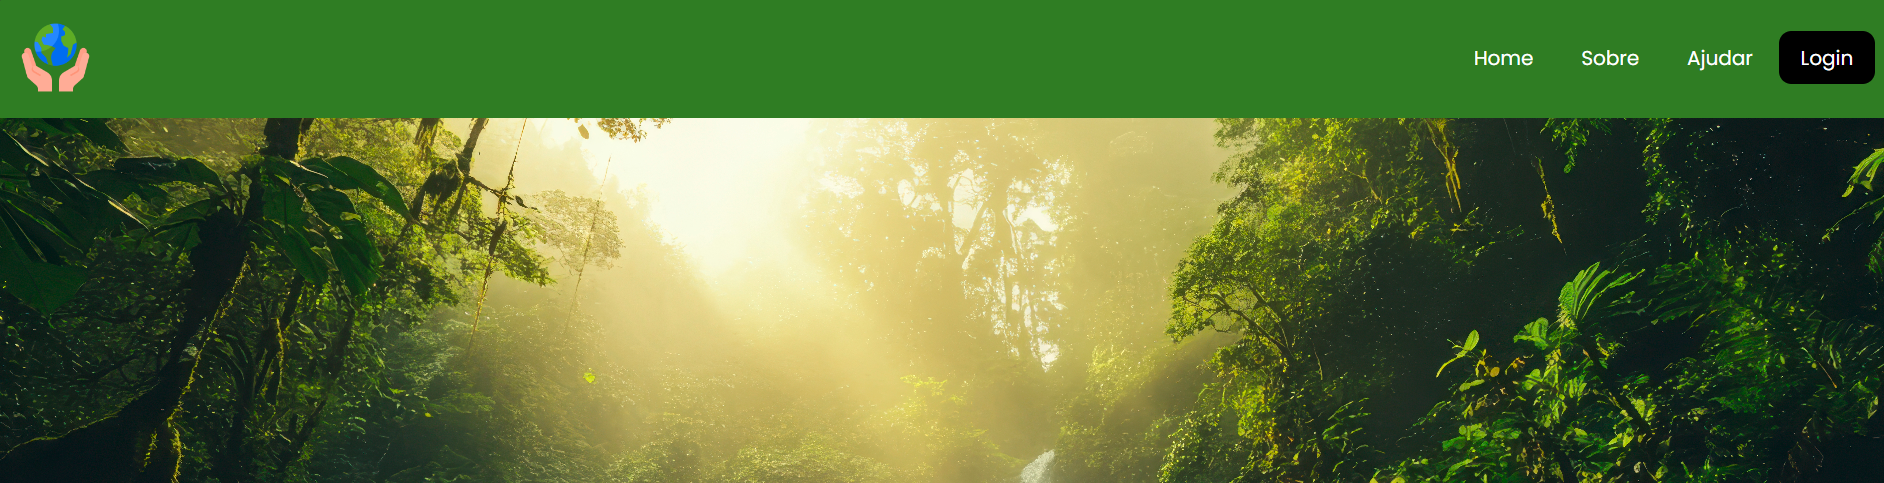
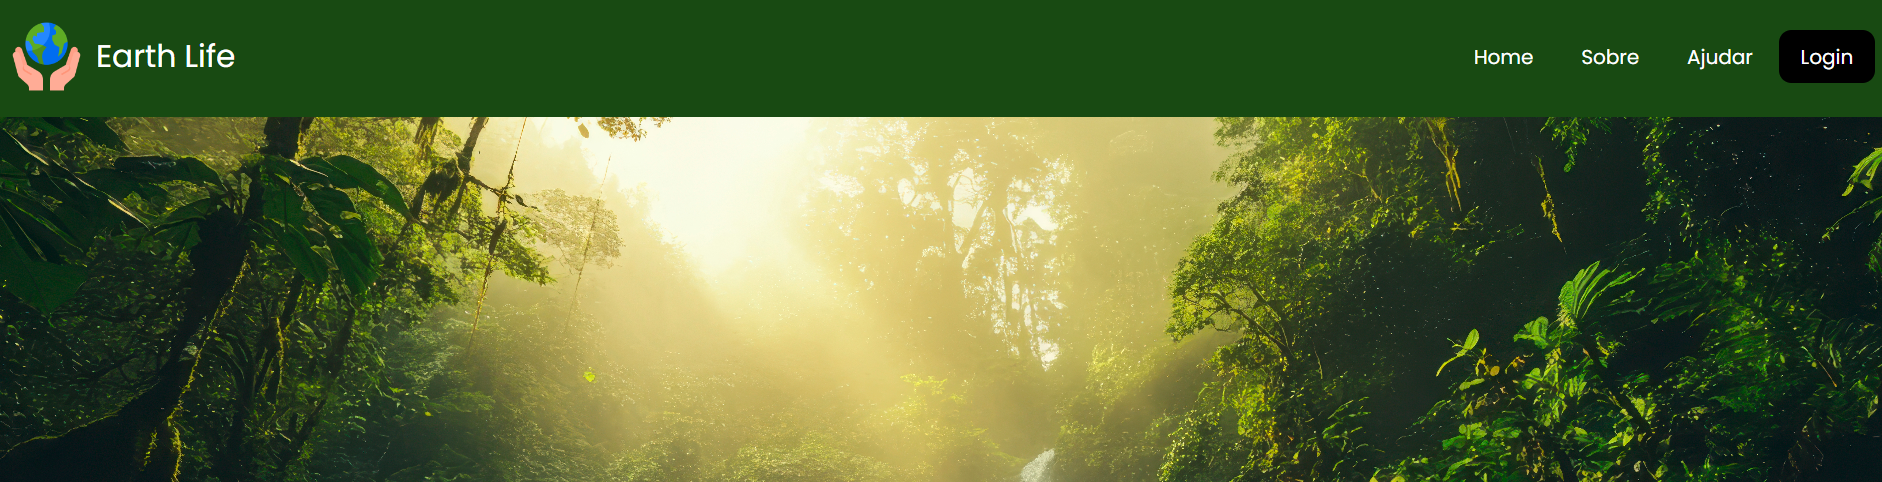
projeto_atualizado

diff --git a/style.css b/style.css
@@ -25,6 +25,7 @@ body{
     display: flex;
     align-items: center;
     justify-content: space-between;
+    background-color: var(--dark-green);
     padding: 10px;
 }
 
@@ -45,11 +46,17 @@ body{
 
 /*-------Logo_do_site-------*/
 .logo{
-    width: 75px;
-    height: 75px;
+    width: 13%;
     display: flex;
     align-items: center;
-    justify-content: center;
+    justify-content: left;
+    gap: 10px;
+}
+
+.logo h3{
+    font-size: 25px;
+    color: var(--white);
+    font-weight: 400;
 }
 
 .logo img{
@@ -101,19 +108,14 @@ body{
     justify-content: center;
     flex-wrap: wrap;
     gap: 30px;
-    padding: 30px;
+    padding: 10px;
 }
 
 .ajuda{
     width: 35%;
-    height: 70vh;
-    display: flex;
-    align-items: center;
-    justify-content: center;
-    flex-direction: column;
     background-color: var(--white);
     border-radius: 10px;
-    padding: 10px;
+    padding: 10px 30px;
     -webkit-box-shadow: 0px 11px 17px 0px rgba(0,0,0,0.35);
     -moz-box-shadow: 0px 11px 17px 0px rgba(0,0,0,0.35);
     box-shadow: 0px 11px 17px 0px rgba(0,0,0,0.35);
@@ -122,6 +124,7 @@ body{
 .ajuda h2{
     margin-bottom: 10px;
     font-size: 40px;
+    text-align: center;
 }
 
 .ajuda p{
@@ -132,8 +135,8 @@ body{
 }
 
 .ajuda img{
-    width: 40%;
-    height: 30vh;
+    width: 100%;
+    height: 40vh;
 }
 
 /*-------Queimadas-------*/
@@ -279,7 +282,7 @@ body{
         position: absolute;
         top: 13%;
         right: 0%;
-        background-color: var(--green);
+        background-color: var(--dark-green);
         padding: 5px;
         text-align: left;
     }
@@ -287,6 +290,14 @@ body{
     .menu li{
         margin-top: 10px;
         margin-bottom: 10px;
+    }
+
+    .menu .botao{
+        background-color: transparent;
+    }
+
+    .logo{
+        width: 42%;
     }
 
     .banner{
@@ -298,8 +309,8 @@ body{
     }
 
     .ajuda{
-        width: 46%;
-        height: 50vh;
+        width: 90%;
+        padding: 10px 20px;
     }
 
     .ajuda h2{
@@ -308,13 +319,12 @@ body{
     }
 
     .ajuda p{
-        font-size: 10px;
+        font-size: 14px;
         margin-bottom: 5px;
     }
 
     .ajuda img{
-        width: 90%;
-        height: 15vh;
+        height: 30vh;
     }
 
     .queimada{
@@ -323,7 +333,7 @@ body{
     }
 
     .queimada img{
-        width: 95%;
+        width: 100%;
         height: 40vh;
         margin-top: 10px;
     }
@@ -352,7 +362,7 @@ body{
     }
 
     .pantanal img{
-        width: 95%;
+        width: 100%;
         height: 40vh;
         margin-top: 10px;
     }

diff --git a/Pages/styles/ajudar.css b/Pages/styles/ajudar.css
@@ -58,11 +58,17 @@ body{
 
 /*-------Logo_do_site-------*/
 .logo{
-    width: 75px;
-    height: 75px;
+    width: 13%;
     display: flex;
     align-items: center;
-    justify-content: center;
+    justify-content: left;
+    gap: 10px;
+}
+
+.logo h3{
+    font-size: 25px;
+    color: var(--white);
+    font-weight: 400;
 }
 
 .logo img{
@@ -97,7 +103,7 @@ body{
     display: flex;
     align-items: center;
     justify-content: center;
-    background-color: var(--dark-green);
+    background-color: var(--white);
     padding: 0 40px;
     border-radius: 10px;
     gap: 10px;
@@ -115,7 +121,7 @@ body{
     display: flex;
     align-items: center;
     justify-content: center;
-    background-color: var(--dark-green);
+    background-color: var(--white);
     padding: 0 40px;
     border-radius: 10px;
     gap: 10px;
@@ -128,7 +134,7 @@ body{
 
 /*-------Texto-------*/
 .texto{
-    color: var(--white);
+    color: var(--black);
 }
 
 .texto h2{
@@ -162,6 +168,14 @@ body{
     .menu li{
         margin-top: 10px;
         margin-bottom: 10px;
+    }
+
+    .menu .botao{
+        background-color: transparent;
+    }
+
+    .logo{
+        width: 42%;
     }
     
     .titulo h1{

diff --git a/Pages/login.html b/Pages/login.html
@@ -13,6 +13,7 @@
     <nav class="menu">
         <div class="logo">
             <img src="../Img/Logo.png" alt="Logo">
+            <h3>Earth Life</h3>
         </div>
         <ul id="menu">
             <li><a href="../index.html">Home</a></li>
@@ -27,14 +28,14 @@
             <h1>Bem vindo(a)</h1>
             <p>Faça seu cadastro</p>
             <div class="info">
-                <input type="email" placeholder="Digite seu email">
-                <input type="password" placeholder="Digite sua senha">
+                <input type="email" placeholder="Digite seu email" id="email">
+                <input type="password" placeholder="Digite sua senha" id="senha">
             </div>
             <div class="link">
                 <label for=""><input type="checkbox">Lembre-se</label>
                 <a href="#">Esqueceu a senha?</a>
             </div>
-            <button>Cadastre-se</button>
+            <button onclick="cadastro()">Cadastre-se</button>
             <div class="conta">
                 <h3>Ou entre com a conta</h3>
                 <div class="redes">

diff --git a/Pages/styles/login.css b/Pages/styles/login.css
@@ -58,11 +58,17 @@ body{
 
 /*-------Logo_do_site-------*/
 .logo{
-    width: 75px;
-    height: 75px;
+    width: 13%;
     display: flex;
     align-items: center;
-    justify-content: center;
+    justify-content: left;
+    gap: 10px;
+}
+
+.logo h3{
+    font-size: 25px;
+    color: var(--white);
+    font-weight: 400;
 }
 
 .logo img{
@@ -216,6 +222,14 @@ body{
     .menu li{
         margin-top: 10px;
         margin-bottom: 10px;
+    }
+
+    .menu .botao{
+        background-color: transparent;
+    }
+
+    .logo{
+        width: 42%;
     }
 
     .login2{

diff --git a/Pages/styles/sobre.css b/Pages/styles/sobre.css
@@ -58,11 +58,17 @@ body{
 
 /*-------Logo_do_site-------*/
 .logo{
-    width: 75px;
-    height: 75px;
+    width: 13%;
     display: flex;
     align-items: center;
-    justify-content: center;
+    justify-content: left;
+    gap: 10px;
+}
+
+.logo h3{
+    font-size: 25px;
+    color: var(--white);
+    font-weight: 400;
 }
 
 .logo img{
@@ -137,6 +143,14 @@ body{
     .menu li{
         margin-top: 10px;
         margin-bottom: 10px;
+    }
+
+    .menu .botao{
+        background-color: transparent;
+    }
+
+    .logo{
+        width: 42%;
     }
 
     .sobre{

diff --git a/index.html b/index.html
@@ -13,6 +13,7 @@
     <nav class="menu">
         <div class="logo">
             <img src="./Img/Logo.png" alt="Logo">
+            <h3>Earth Life</h3>
         </div>
         <ul id="menu">
             <li><a href="#">Home</a></li>
@@ -75,6 +76,6 @@
     <div class="copyright">
         <p>&copy;2024 - Earth Life criado por Lucas Biasoli Goulart</p>
     </div>
-    <script src="./script.js"></script>
+    <script src="../script.js"></script>
 </body>
 </html>

diff --git a/script.js b/script.js
@@ -8,3 +8,15 @@ menuButton.addEventListener('click', function () {
         menu.style.display = 'block';
     }
 });
+
+// Login
+function cadastro() {
+    const email = document.getElementById('email');
+    const senha = document.getElementById('senha');
+
+    if (!email || !senha) {
+        window.alert('Login com sucesse!');
+    }else {
+        window.alert('Cadastro incorreto!');
+    }
+}

diff --git a/Pages/ajudar.html b/Pages/ajudar.html
@@ -13,6 +13,7 @@
     <nav class="menu">
         <div class="logo">
             <img src="../Img/Logo.png" alt="Logo">
+            <h3>Earth Life</h3>
         </div>
         <ul id="menu">
             <li><a href="../index.html">Home</a></li>

diff --git a/Pages/sobre.html b/Pages/sobre.html
@@ -13,6 +13,7 @@
     <nav class="menu">
         <div class="logo">
             <img src="../Img/Logo.png" alt="Logo">
+            <h3>Earth Life</h3>
         </div>
         <ul id="menu">
             <li><a href="../index.html">Home</a></li>
